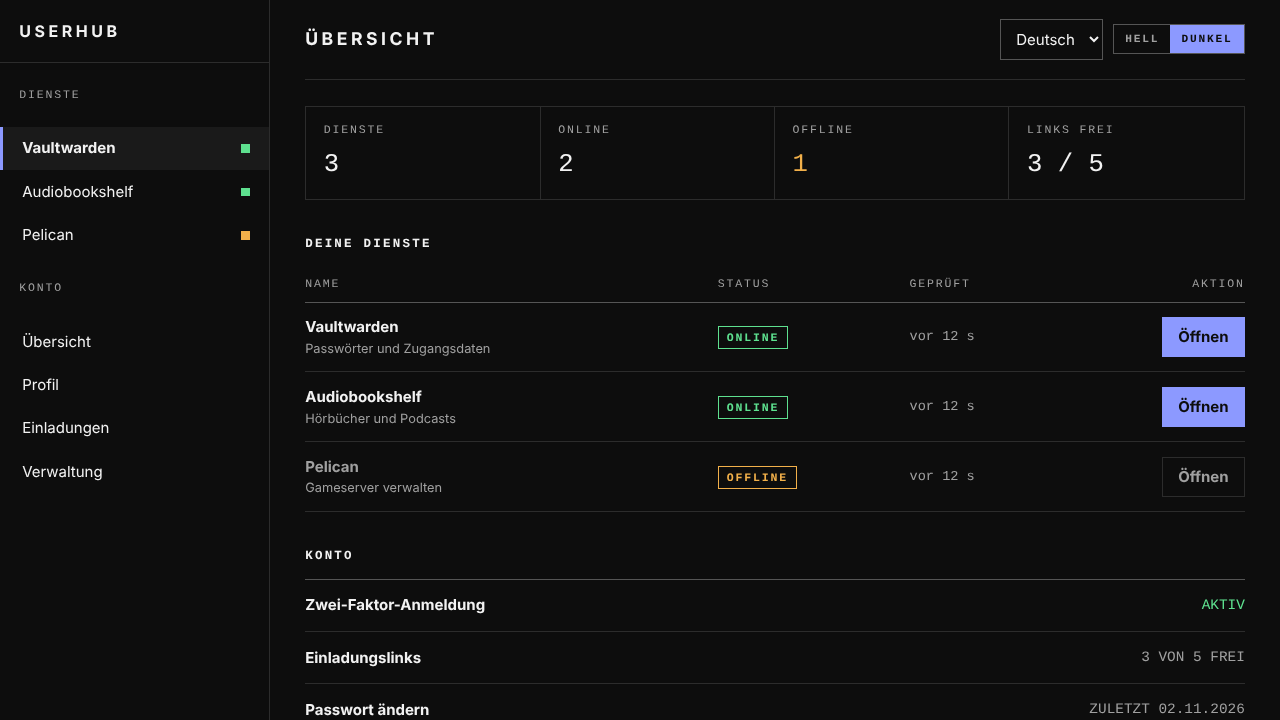
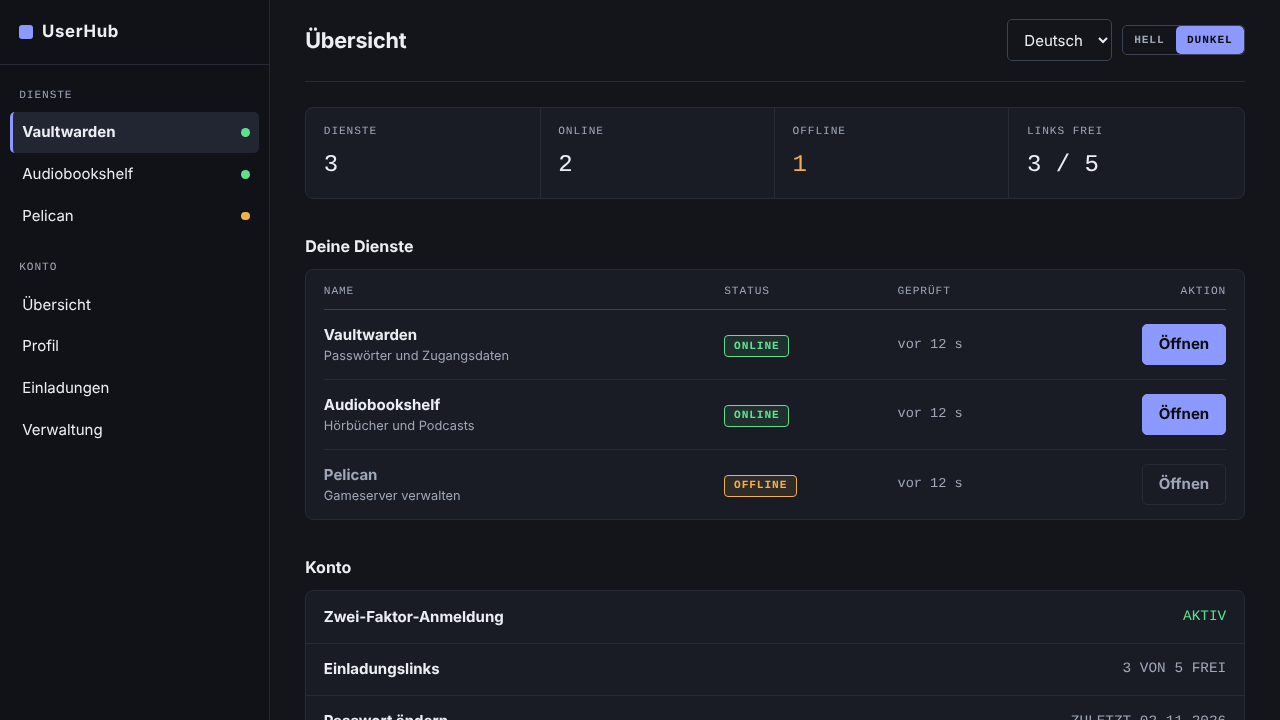
Etappe 6: Raster weicher (kleine Rundungen, normale Ueberschriften, Flaechen)
Claude-Session: https://claude.ai/code/session_01YPhmyEnPcJmUX5AnhJ44t4

diff --git a/mockups/raster/style.css b/mockups/raster/style.css
@@ -1,60 +1,62 @@
-/* Raster: streng, flach, null Rundung, Haarlinien, Beschriftungen in Großbuchstaben mit Mono-Schrift. Dunkel und Hell über data-theme. */
+/* Raster (weicher): klare Linien und Raster, kleine Rundungen, kleine Mono-Beschriftungen, Überschriften normal geschrieben. Dunkel und Hell über data-theme. */
 :root{--font:system-ui,-apple-system,"Segoe UI",Roboto,sans-serif;--mono:ui-monospace,"SFMono-Regular",Menlo,Consolas,"Liberation Mono",monospace}
-:root,[data-theme=dark]{color-scheme:dark;--bg:#0d0d0d;--side:#0d0d0d;--text:#f2f2f2;--muted:#a0a0a0;--line:#2c2c2c;--line-strong:#555;--hover:#171717;--current:#1a1a1a;
+:root,[data-theme=dark]{color-scheme:dark;--bg:#13151b;--side:#101218;--surface:#191c24;--text:#eceef4;--muted:#9fa6b8;--line:#272b36;--line-strong:#3c4252;--hover:#1c1f28;--current:#222633;--r:5px;--r-card:8px;
 --accent:#8c99ff;--accent-text:#0d0d0d;--link:#a9b3ff;--ok:#5ee08f;--down:#f2b04a;--focus:#ffd479}
-[data-theme=light]{color-scheme:light;--bg:#f2f2f2;--side:#f2f2f2;--text:#111;--muted:#555;--line:#cfcfcf;--line-strong:#7a7a7a;--hover:#e8e8e8;--current:#e4e4e4;
+[data-theme=light]{color-scheme:light;--bg:#f4f5f8;--side:#eceef3;--surface:#fff;--text:#14161c;--muted:#566074;--line:#dadde6;--line-strong:#b4bacb;--hover:#e8eaf1;--current:#dfe2ee;--r:5px;--r-card:8px;
 --accent:#3a49d6;--accent-text:#fff;--link:#2f3dc0;--ok:#1a7a3a;--down:#9a5b00;--focus:#8a4b00}
 *{box-sizing:border-box}
 body{margin:0;min-height:100vh;background:var(--bg);color:var(--text);font:15px/1.5 var(--font)}
 .visually-hidden{position:absolute;width:1px;height:1px;overflow:hidden;clip:rect(0 0 0 0);white-space:nowrap}
 a{color:var(--link)}p{margin:0 0 1rem}.muted{color:var(--muted)}
 :focus-visible{outline:2px solid var(--focus);outline-offset:2px}
-.label,th,.side-title,label,.tag,.stat dt{font-family:var(--mono);font-size:.72rem;letter-spacing:.16em;text-transform:uppercase}
-.brand{font-weight:700;letter-spacing:.22em;text-transform:uppercase;font-size:1rem}
+.label,th,.side-title,label,.tag,.stat dt{font-family:var(--mono);font-size:.7rem;letter-spacing:.08em;text-transform:uppercase}
+.brand{font-weight:700;letter-spacing:.04em;font-size:1.05rem;display:flex;align-items:center;gap:.55rem}
+.brand::before{content:"";width:14px;height:14px;background:var(--accent);border-radius:3px}
 .brand small{font-family:var(--font);letter-spacing:0;text-transform:none;font-weight:400;color:var(--muted);margin-left:.7rem;font-size:.85rem}
-h1{font-size:1.1rem;margin:0;letter-spacing:.2em;text-transform:uppercase;font-weight:700}
-h2{font-family:var(--mono);font-size:.78rem;letter-spacing:.18em;text-transform:uppercase;margin:2.2rem 0 .8rem;font-weight:700}
+h1{font-size:1.35rem;margin:0;font-weight:650;letter-spacing:-.01em}
+h2{font-size:1rem;margin:2.2rem 0 .7rem;font-weight:650}
 /* Bedienelemente */
-button,.btn{font:inherit;font-weight:650;border:1px solid var(--line-strong);background:transparent;color:var(--text);padding:.5rem .95rem;border-radius:0;cursor:pointer;text-decoration:none;display:inline-block;text-align:center}
+button,.btn{font:inherit;font-weight:650;border:1px solid var(--line-strong);background:transparent;color:var(--text);padding:.5rem 1rem;border-radius:var(--r);cursor:pointer;text-decoration:none;display:inline-block;text-align:center}
 button:hover,.btn:hover{background:var(--hover);border-color:var(--text)}
 .btn.primary,button.primary{background:var(--accent);border-color:var(--accent);color:var(--accent-text)}
 .btn.primary:hover,button.primary:hover{filter:brightness(1.1);background:var(--accent)}
 .btn.disabled{color:var(--muted);border-color:var(--line);cursor:not-allowed;pointer-events:none}
-select,input[type=text],input[type=password]{font:inherit;color:var(--text);background:var(--bg);border:1px solid var(--line-strong);border-radius:0;padding:.55rem .7rem}
+select,input[type=text],input[type=password]{font:inherit;color:var(--text);background:var(--bg);border:1px solid var(--line-strong);border-radius:var(--r);padding:.6rem .75rem}
 input[type=text],input[type=password]{width:100%}input:focus{border-color:var(--accent)}
 label{display:block;color:var(--muted);margin:1.2rem 0 .35rem}
 .check{display:flex;gap:.6rem;align-items:center;text-transform:none;letter-spacing:0;font-family:var(--font);font-size:.95rem;color:var(--text)}
 .check input{accent-color:var(--accent);width:1rem;height:1rem}
-.seg{display:inline-flex;border:1px solid var(--line-strong)}
-.seg button{border:0;padding:.35rem .7rem;font-family:var(--mono);font-size:.7rem;letter-spacing:.16em;text-transform:uppercase;color:var(--muted)}
+.seg{display:inline-flex;border:1px solid var(--line-strong);border-radius:var(--r);overflow:hidden}
+.seg button{border:0;padding:.35rem .7rem;font-family:var(--mono);font-size:.7rem;letter-spacing:.08em;text-transform:uppercase;color:var(--muted)}
 .seg button[aria-pressed=true]{background:var(--accent);color:var(--accent-text)}
-.tag{display:inline-block;border:1px solid currentColor;padding:.1rem .5rem;font-weight:700;white-space:nowrap}
+.tag{display:inline-block;border:1px solid currentColor;border-radius:4px;padding:.1rem .55rem;font-weight:700;white-space:nowrap;background:color-mix(in srgb,currentColor 10%,transparent)}
 .tag.ok{color:var(--ok)}.tag.down{color:var(--down)}
 /* Login */
 .login{max-width:420px;margin:0 auto;padding:14vh 16px 32px}
 .login .top{display:flex;justify-content:space-between;align-items:center;margin-bottom:1.6rem}
-.panel{border:1px solid var(--line);border-top:2px solid var(--accent);padding:1.7rem}
+.panel{border:1px solid var(--line);background:var(--surface);border-radius:var(--r-card);padding:1.8rem}
 .panel h1{margin-bottom:.4rem}
 .login button.primary{width:100%;margin-top:1.5rem;padding:.7rem}
-.login .foot{margin-top:1rem;font-family:var(--mono);font-size:.72rem;letter-spacing:.12em;text-transform:uppercase;color:var(--muted)}
+.login .foot{margin-top:1rem;font-family:var(--mono);font-size:.72rem;letter-spacing:.08em;text-transform:uppercase;color:var(--muted)}
 /* Hub: Seitenmenü links, Inhalt rechts */
 .shell{display:grid;grid-template-columns:270px 1fr;min-height:100vh}
 .sidebar{border-right:1px solid var(--line);background:var(--side);display:flex;flex-direction:column;padding:1.2rem 0}
 .sidebar .brand{padding:0 1.2rem 1.2rem;border-bottom:1px solid var(--line)}
-.side-title{color:var(--muted);padding:1.4rem 1.2rem .5rem}
+.side-title{color:var(--muted);padding:1.4rem 1.2rem .5rem;margin:0}
 .sidebar nav{display:flex;flex-direction:column}
-.sidebar nav a{display:flex;align-items:center;justify-content:space-between;gap:.6rem;padding:.65rem 1.2rem;color:var(--text);text-decoration:none;border-left:3px solid transparent}
+.sidebar nav{padding:0 .6rem}
+.sidebar nav a{display:flex;align-items:center;justify-content:space-between;gap:.6rem;padding:.6rem;color:var(--text);text-decoration:none;border-radius:var(--r);border-left:3px solid transparent}
 .sidebar nav a:hover{background:var(--hover)}
 .sidebar nav a.current{background:var(--current);border-left-color:var(--accent);font-weight:650}
-.dot{display:inline-block;width:.55rem;height:.55rem;background:var(--ok)}.dot.down{background:var(--down)}
+.dot{display:inline-block;width:.55rem;height:.55rem;border-radius:50%;background:var(--ok)}.dot.down{background:var(--down)}
 .sidebar .grow{flex:1}
 .sidebar .me{border-top:1px solid var(--line);padding:1rem 1.2rem 0;display:flex;flex-direction:column;gap:.7rem}
 .content{padding:0 2.2rem 3rem;max-width:1180px;width:100%}
 .bar{display:flex;justify-content:space-between;align-items:center;gap:1rem;padding:1.2rem 0;border-bottom:1px solid var(--line);margin-bottom:1.6rem}
 .bar .right{display:flex;gap:.6rem;align-items:center;flex-wrap:wrap}
-.stats{display:grid;grid-template-columns:repeat(4,1fr);border:1px solid var(--line)}
+.stats{display:grid;grid-template-columns:repeat(4,1fr);border:1px solid var(--line);border-radius:var(--r-card);background:var(--surface);overflow:hidden;margin:0}
 .stat{padding:.9rem 1.1rem;border-right:1px solid var(--line);margin:0}.stat:last-child{border-right:0}
-.stat dt{color:var(--muted);margin-bottom:.5rem}.stat dd{margin:0;font-family:var(--mono);font-size:1.6rem}
+.stat dt{color:var(--muted);margin-bottom:.5rem}.stat dd{margin:0;font-family:var(--mono);font-size:1.5rem}
 .stat dd.warn{color:var(--down)}
 .table-wrap{overflow-x:auto}
 table{width:100%;border-collapse:collapse}
@@ -64,9 +66,12 @@ td.name{font-weight:650}td.name small{display:block;font-weight:400;color:var(--
 td.mono{font-family:var(--mono);font-size:.85rem;color:var(--muted)}
 td.act,th.act{text-align:right;padding-right:0}
 tr.off td.name{color:var(--muted)}
-.rows{border-top:1px solid var(--line-strong)}
-.row{display:flex;justify-content:space-between;align-items:center;gap:1rem;padding:.9rem 0;border-bottom:1px solid var(--line);color:var(--text);text-decoration:none}
+.rows{border:1px solid var(--line);border-radius:var(--r-card);background:var(--surface);overflow:hidden}
+.row{display:flex;justify-content:space-between;align-items:center;gap:1rem;padding:.9rem 1.1rem;border-bottom:1px solid var(--line);color:var(--text);text-decoration:none}
 .row:hover{background:var(--hover)}.row b{font-weight:650}
 .row .val{font-family:var(--mono);font-size:.9rem;color:var(--muted)}
 .row .val.ok{color:var(--ok)}
 @media (max-width:820px){.shell{grid-template-columns:1fr}.sidebar{border-right:0;border-bottom:1px solid var(--line)}.content{padding:0 1rem 2rem}.stats{grid-template-columns:repeat(2,1fr)}.stat:nth-child(2){border-right:0}.stat:nth-child(-n+2){border-bottom:1px solid var(--line)}}
+.row:last-child{border-bottom:0}
+.table-wrap{border:1px solid var(--line);border-radius:var(--r-card);background:var(--surface);padding:0 1.1rem}
+tr:last-child td{border-bottom:0}th{padding-top:.8rem}
